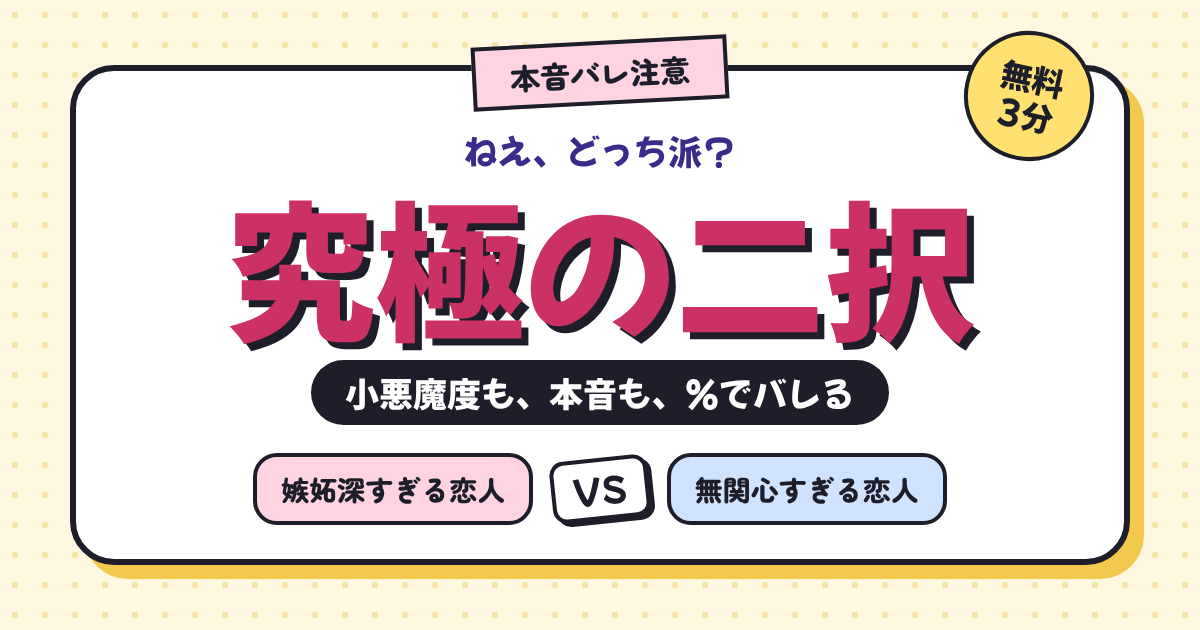
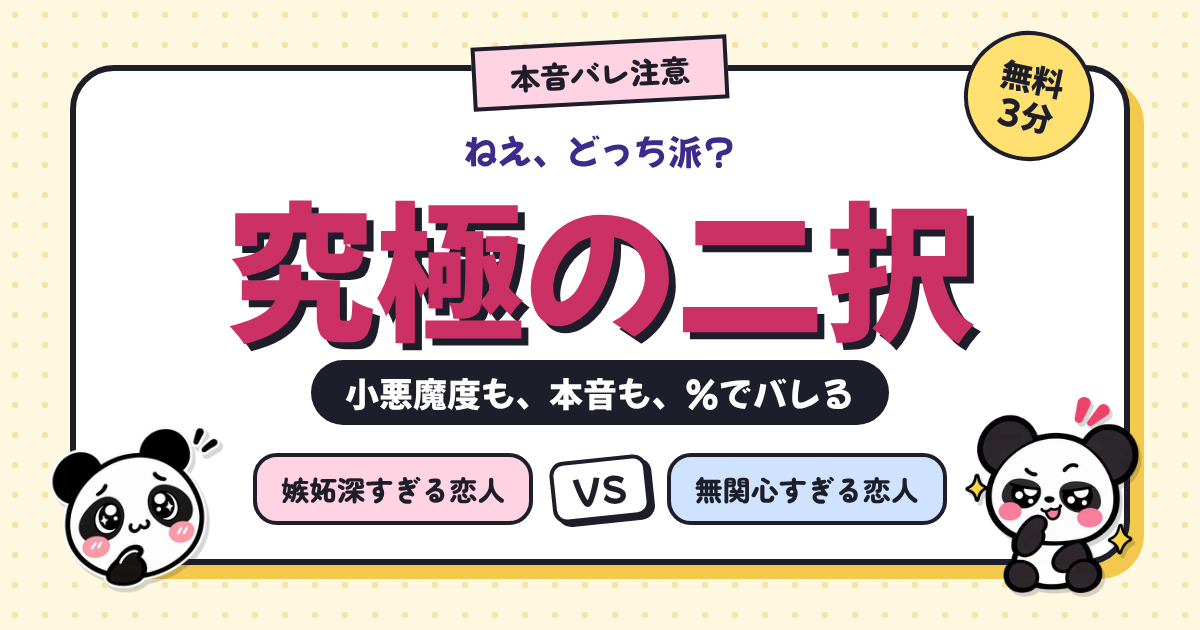
nitaku: show panda expressions in the lobby, notices, results and ended screen; add pandas to the share image
Claude-Session: https://claude.ai/code/session_01VNhb2hkhfox6azdXRsnDTE

Changed region(s): [[0.8017, 0.6333, 0.9558, 0.9651], [0.0308, 0.6635, 0.185, 0.9349]]

diff --git a/nitaku/index.html b/nitaku/index.html
@@ -23,7 +23,7 @@
 <meta property="og:description" content="嫉妬深すぎる恋人 VS 無関心すぎる恋人。あなたはどっち？ 選ぶだけで小悪魔度と本音がわかる無料診断。その場でも、離れていても、みんなで遊べる。遊ぶたびに問題が変わる。">
 <meta property="og:type" content="website">
 <!-- シェアしたときの画像。サイトのアドレスが決まったら、https:// から始まる完全なアドレスに書きかえる（LINE・Xは完全なアドレスでないと画像を出さない） -->
-<meta property="og:image" content="https://honbare.com/og-image.png?v=2">
+<meta property="og:image" content="https://honbare.com/og-image.png?v=3">
 <meta property="og:url" content="https://honbare.com/">
 <link rel="canonical" href="https://honbare.com/">
 <meta property="og:image:width" content="1200">
@@ -549,6 +549,19 @@ body.rdy-on #gres-body{padding-bottom:230px}
 .imgov-in{max-width:520px;margin:0 auto;background:#fff;border-radius:20px;padding:16px}
 .imgov-t{margin:0 0 10px;font-weight:900;font-size:16px;text-align:center;color:#1E1E2A}
 .imgov img{display:block;width:100%;border:2px solid #1E1E2A;border-radius:12px}
+/* パンダの表情（鑑定者本人が作った絵 2026-11-13「これで」）。1つの画面に1匹だけ */
+.pnd{display:block;margin:0 auto 6px;width:110px;height:110px;object-fit:contain}
+.splash .pnd{width:120px;height:120px;margin:0}
+.res-hero .pnd{width:96px;height:96px;margin:2px auto 0}
+.rdy-in .rdy-row{display:flex;align-items:center;gap:10px}
+.rdy-in .rdy-row img{flex:none;width:58px;height:58px;object-fit:contain}
+.rdy-in .rdy-row>div{min-width:0}
+.mini-pnd{width:52px;height:52px;object-fit:contain;vertical-align:middle;margin-right:4px}
+.rank.rank-pnd{align-items:center}
+.rank.rank-pnd .k{display:flex;align-items:center;gap:4px}
+.rank.rank-pnd .mini-pnd{width:34px;height:34px;flex:none;margin:0}
+.rank.rank-pnd .v{white-space:nowrap}
+.join-hello .pnd{width:96px;height:96px}
 </style>
 </head>
 <body data-mode="love">
@@ -743,12 +756,13 @@ body.rdy-on #gres-body{padding-bottom:230px}
   <button class="big" id="join-go">参加する</button>
 </section>
 
-<div class="splash" id="splash" hidden><b id="splash-t"></b><small id="splash-s"></small></div>
+<div class="splash" id="splash" hidden><img class="pnd" id="splash-img" alt="" width="120" height="120"><b id="splash-t"></b><small id="splash-s"></small></div>
 <!-- 部屋（集まるまで） -->
 <section class="scr" id="s-lobby">
   <div class="nav"><button class="navb" data-nav="back">← もどる</button><span class="navr"><button class="navb" data-nav="top">TOP</button></span></div>
   <div hidden><div id="lb-status"></div><span id="lb-count"></span></div>
   <div class="card lb-main">
+    <img class="pnd" id="lb-panda" src="img/panda-wait.webp" alt="" width="110" height="110">
     <p class="lb-pill" id="lb-pill"></p>
     <p class="lb-head" id="lb-head">部屋ができました</p>
     <p class="lb-sub" id="lb-sub"></p>
@@ -1340,7 +1354,7 @@ function majorityStats(qs, ans){
   if(n<5) return '<div class="card"><h3>みんなと同じ答え？</h3><p>まだ回答が少ない問題が多いので、くらべられません。回答が集まると「多数派度」が出ます。</p></div>';
   var r=Math.round(100*same/n);
   var cm = r>=70 ? '王道タイプ。みんなの気持ちがわかる人。' : (r<=35 ? '少数派タイプ。あなたの答えは、個性そのもの。' : '王道と個性のバランス型。');
-  return '<div class="card"><h3>みんなと同じ答え？</h3><div class="stat"><div><b>'+same+' / '+n+'</b><small>みんなと同じ答え</small></div><div><b>'+r+'%</b><small>多数派度</small></div></div><p style="margin-top:10px;font-size:15px;font-weight:700">'+cm+'</p></div>';
+  return '<div class="card"><h3>みんなと同じ答え？</h3><div class="stat"><div><b>'+same+' / '+n+'</b><small>みんなと同じ答え</small></div><div><b>'+r+'%</b><small>多数派度</small></div></div><p style="margin-top:10px;font-size:15px;font-weight:700">'+(r<=35?'<img class="mini-pnd" src="img/panda-wow.webp" alt="" width="52" height="52">':'')+cm+'</p></div>';
 }
 /* もどる・TOP（どの画面からでも） */
 function curScr(){ var e=document.querySelector('.scr.on'); return e ? e.id : 's-home'; }
@@ -1479,7 +1493,8 @@ function doShare(text){
 var splashT=null;
 function splash(t, sub, kind){
   var el=$('splash'); $('splash-t').textContent=t; $('splash-s').textContent=sub||'';
-  el.className='splash '+(kind||''); el.hidden=false;
+  $('splash-img').src='img/panda-'+({go:'joy',join:'bye',again:'wait'}[kind]||'joy')+'.webp';
+  el.className='splash '+(kind==='again'?'join':(kind||'')); el.hidden=false;
   try{ navigator.vibrate&&navigator.vibrate(kind==='go'?[120,60,120]:80); }catch(e){}
   clearTimeout(splashT); splashT=setTimeout(function(){ el.hidden=true; }, kind==='go'?1600:2200);
 }
@@ -1541,6 +1556,7 @@ function showResult(){
   var hist=saveHist(mode, sc);
   var others = AXES[mode].filter(function(ax){ return ax.k!==hd.k; });
   var h='<div class="res-hero"><div class="pre">'+playName(mode)+'　あなたの結果</div>'+
+    '<img class="pnd" src="img/panda-'+(val>=65?'smirk':(val<35?'shy':'1'))+'.webp" alt="" width="96" height="96">'+
     '<div class="meter"><div class="cap">'+hd.cap+'</div><div class="num">'+val+'<small>%</small></div></div>'+
     '<div class="catch">'+axComment(hd.k,val)+'</div>'+
     '<div class="minis">'+others.map(function(ax){ return '<div><b>'+sc[ax.k]+'<small>%</small></b><span>'+ax.name+'</span></div>'; }).join('')+'</div></div>';
@@ -1596,7 +1612,7 @@ function showGroupResult(){
     R.forEach(function(r,k){ if(S.ans[r.i][qi]===minor) minority[k]++; });
   });
   var mi = minority.indexOf(Math.max.apply(null,minority));
-  if(minority[mi]>0) h+='<div class="rank"><span class="k">いちばんの少数派（個性派）</span><span class="v">'+esc(R[mi].p.name)+'（'+minority[mi]+'回）</span></div>';
+  if(minority[mi]>0) h+='<div class="rank rank-pnd"><span class="k"><img class="mini-pnd" src="img/panda-wow.webp" alt="" width="34" height="34"><span>いちばんの少数派（個性派）</span></span><span class="v">'+esc(R[mi].p.name)+'（'+minority[mi]+'回）</span></div>';
   // 即決王（答えるまでの時間）
   {
     var avg=R.map(function(r){ var t=S.times[r.i].filter(Boolean); return t.length? t.reduce(function(x,y){return x+y;},0)/t.length : 1e9; });
@@ -1831,7 +1847,7 @@ function roomEnded(r){ return !r || r.phase==='closed' || (typeof r.created==='n
 var ROOM_ENDED_MSG='この部屋は終わっています。招待してくれた人に、新しい部屋のリンクを送ってもらってね。';
 function showEnded(){
   $('s-join').classList.add('ended');
-  $('join-hello').innerHTML='この部屋は終わっています<small>招待してくれた人に、新しい部屋のリンクを送ってもらってね。</small>';
+  $('join-hello').innerHTML='<img class="pnd" src="img/panda-sad.webp" alt="" width="96" height="96">この部屋は終わっています<small>招待してくれた人に、新しい部屋のリンクを送ってもらってね。</small>';
   $('join-st').textContent='';
 }
 /* 参加する前に、その部屋がもう始まっているかを見せる */
@@ -2001,7 +2017,7 @@ function onRoom(room, players){
       if(was!=='done:'+room.round+':'+room.qi || curScr()!=='s-gres') showGroupResult();
       var rp=readyParts(room);
       R.rdyAt=Date.now();
-      if(rp.by!==R.pid) splash(readyName(rp.by)+'さんが「もう1回」を押しました', '読み終わったら、下の「準備OK」を押してね', 'join');
+      if(rp.by!==R.pid) splash(readyName(rp.by)+'さんが「もう1回」を押しました', '読み終わったら、下の「準備OK」を押してね', 'again');
     }
     renderReady(); readyCheck();
   }
@@ -2029,6 +2045,7 @@ function renderLobby(){
   R.seenP={}; R.players.forEach(function(p){ R.seenP[p.pid]=1; });
   if(fresh.length){ splash(fresh.join('さん・')+'さんが入りました！', n+'人になりました', 'join'); }
   var pill=$('lb-pill');
+  $('lb-panda').src='img/panda-'+(R.host && n>=2 ? 'joy' : 'wait')+'.webp';
   if(R.host){
     pill.className='lb-pill '+(n<2?'wait':'ok');
     pill.textContent = n<2 ? '⏳ 友だちを待っています' : '✅ '+n+'人そろいました';
@@ -2116,7 +2133,7 @@ function renderReady(){
   var R=S.room; if(!R || !R.data || R.data.phase!=='ready' || curScr()!=='s-gres'){ hideReady(); return; }
   var rp=readyParts(R.data), need=readyNeed(R), me=readyOk(R, { pid:R.pid });
   var ok=need.filter(function(p){ return readyOk(R, p); }).length;
-  var h='<div class="rdy-in"><p class="rdy-t">🔁 '+esc(readyName(rp.by))+'さんが「もう1回」を押しました'+(rp.nx!==R.data.mode ? '<br><small>次は'+MODE_NAME[rp.nx]+'です</small>' : '')+'</p>';
+  var h='<div class="rdy-in"><div class="rdy-row"><img src="img/panda-wait.webp" alt="" width="58" height="58"><div><p class="rdy-t">🔁 '+esc(readyName(rp.by))+'さんが「もう1回」を押しました'+(rp.nx!==R.data.mode ? '<br><small>次は'+MODE_NAME[rp.nx]+'です</small>' : '')+'</p></div></div>';
   if(!me){
     h+='<p class="rdy-s">結果を読み終わったら「準備OK」を押してね。みんながそろうと、次の問題が始まります。</p><button class="big" id="rdy-go" type="button">準備OK</button>';
   } else {

diff --git a/nitaku/muzukashii/index.html b/nitaku/muzukashii/index.html
@@ -2,7 +2,7 @@
 <title>難しい究極の二択（地獄の二択）40選｜究極の二択 本音バレ診断</title>
 <meta name="description" content="どっちを選んでも痛い、難しい究極の二択（地獄の二択）を40問まとめました。恋愛も人生も、本気で悩む質問ばかりです。">
 <link rel="canonical" href="https://honbare.com/muzukashii/">
-<meta property="og:title" content="難しい究極の二択（地獄の二択）40選｜究極の二択 本音バレ診断"><meta property="og:description" content="どっちを選んでも痛い、難しい究極の二択（地獄の二択）を40問まとめました。恋愛も人生も、本気で悩む質問ばかりです。"><meta property="og:image" content="https://honbare.com/og-image.png?v=2"><meta property="og:url" content="https://honbare.com/muzukashii/"><meta name="twitter:card" content="summary_large_image">
+<meta property="og:title" content="難しい究極の二択（地獄の二択）40選｜究極の二択 本音バレ診断"><meta property="og:description" content="どっちを選んでも痛い、難しい究極の二択（地獄の二択）を40問まとめました。恋愛も人生も、本気で悩む質問ばかりです。"><meta property="og:image" content="https://honbare.com/og-image.png?v=3"><meta property="og:url" content="https://honbare.com/muzukashii/"><meta name="twitter:card" content="summary_large_image">
 <link rel="stylesheet" href="https://fonts.googleapis.com/css2?family=Mochiy+Pop+One&family=Zen+Maru+Gothic:wght@700;900&display=swap">
 <script type="application/ld+json">{"@context":"https://schema.org","@type":"ItemList","name":"難しい究極の二択（地獄の二択） 40選","numberOfItems":40,"itemListElement":[{"@type":"ListItem","position":1,"name":"浮気を正直に打ち明けられる VS 浮気に一生気づかないまま"},{"@type":"ListItem","position":2,"name":"恋人の部屋で、元恋人のパジャマを見つける VS 恋人のスマホで、知らない人とのハートの絵文字を見つける"},{"@type":"ListItem","position":3,"name":"キスが最高にうまい。でも性格はかなりわがまま VS キスがびっくりするほど下手。でも性格は天使"},{"@type":"ListItem","position":4,"name":"浮気を1回だけ許す VS 浮気されたら1回目で即別れる"},{"@type":"ListItem","position":5,"name":"恋人の元恋人が30人 VS 恋人の元恋人が0人（あなたがはじめて）"},{"@type":"ListItem","position":6,"name":"元恋人の結婚式に呼ばれる VS 今の恋人の元恋人と、2人きりで飲みに行く"},{"@type":"ListItem","position":7,"name":"好きな人の結婚式で、友人代表スピーチ VS 好きな人の結婚式に、呼ばれない"},{"@type":"ListItem","position":8,"name":"恋人のスマホを1回だけ見る VS 自分のスマホを1回だけ見せる"},{"@type":"ListItem","position":9,"name":"恋人の親友が、自分に本気で告白してくる VS 自分の親友が、恋人に本気で告白する"},{"@type":"ListItem","position":10,"name":"結婚相手を親が決める。性格も条件も完璧 VS 結婚相手を自分で選ぶ。でも親には一生反対される"},{"@type":"ListItem","position":11,"name":"子どもが大好きな人。でもあなたへの愛はほどほど VS あなたしか見えない人。でも子どもは苦手"},{"@type":"ListItem","position":12,"name":"付き合っていることを一生秘密にする恋 VS みんなに祝福される。でも気持ちは少し冷めた恋"},{"@type":"ListItem","position":13,"name":"元恋人が全員、いまだに自分を好き VS 元恋人が全員、自分のことを完全に忘れている"},{"@type":"ListItem","position":14,"name":"好きな人の幸せのために、身を引く VS どんな手を使ってでも振り向かせる"},{"@type":"ListItem","position":15,"name":"恋人の黒歴史のSNSを見つけてしまう VS 自分の黒歴史のSNSを恋人に見つかる"},{"@type":"ListItem","position":16,"name":"恋人の家に、元恋人の写真が飾ってあった VS 恋人の家に、あなたの写真が壁一面に飾ってあった"},{"@type":"ListItem","position":17,"name":"浮気相手が、あなたの親友 VS 浮気相手が、あなたもよく知っている職場の人"},{"@type":"ListItem","position":18,"name":"最初の恋人と一生添いとげる VS たくさん恋をして、最後に最高の人と出会う"},{"@type":"ListItem","position":19,"name":"一生で1回だけの大恋愛 VS 一生で20回の、そこそこの恋"},{"@type":"ListItem","position":20,"name":"一生ドキドキできる。でも結婚はできない VS すぐ結婚できる。でもドキドキはゼロ"},{"@type":"ListItem","position":21,"name":"好きな人に「友達としか見られない」と言われる VS 好きでもない人に「一生待つ」と言われる"},{"@type":"ListItem","position":22,"name":"愛するほうになる恋 VS 愛されるほうになる恋"},{"@type":"ListItem","position":23,"name":"恋人のために、自分の夢をあきらめる VS 自分の夢のために、恋人と別れる"},{"@type":"ListItem","position":24,"name":"酔った勢いで、好きな人に告白してしまう VS 好きな人から酔った勢いで告白される（本人は覚えていない）"},{"@type":"ListItem","position":25,"name":"フラれた次の日に、別の人から告白される VS 告白をOKした次の日に、本命から告白される"},{"@type":"ListItem","position":26,"name":"恋人がいるのに、昔の片思いの人から告白される VS フリーなのに、恋人がいる人から告白される"},{"@type":"ListItem","position":27,"name":"恋人の裏アカを見つける VS 自分の裏アカを恋人に見つかる"},{"@type":"ListItem","position":28,"name":"友達の恋人を好きになってしまう VS 恋人の友達に好かれてしまう"},{"@type":"ListItem","position":29,"name":"二股されていたことを、結婚式の前日に知る VS 二股されていたことを、一生知らない"},{"@type":"ListItem","position":30,"name":"恋人の転勤に、仕事をやめてついていく VS 恋人の転勤中、帰ってくるまで何年でも待つ"},{"@type":"ListItem","position":31,"name":"借金100万円を、正直に話してくれた恋人 VS 貯金額を、絶対に教えてくれない恋人"},{"@type":"ListItem","position":32,"name":"体だけの浮気 VS 心だけの浮気"},{"@type":"ListItem","position":33,"name":"婚約破棄されたら、慰謝料をきっちりもらう VS 婚約破棄されたら、何も求めずに身を引く"},{"@type":"ListItem","position":34,"name":"結婚式の前日、大好きだった元恋人から「まだ好き」と連絡が来る VS 結婚式の前日、恋人のスマホに知らない人から「さみしい」と届く"},{"@type":"ListItem","position":35,"name":"自分の検索履歴を、好きな人に全部見られる VS 好きな人の検索履歴を、全部見てしまう"},{"@type":"ListItem","position":36,"name":"好きな人の心の声が、1日だけ全部聞こえる VS 自分の心の声が、1日だけ好きな人に全部聞こえる"},{"@type":"ListItem","position":37,"name":"恋人が、あなたの親友の元恋人だったと3年後に知る VS 恋人が、あなたの元恋人の親友だったと3年後に知る"},{"@type":"ListItem","position":38,"name":"恋人の過去の恋愛を、全部くわしく聞かされる VS 自分の過去の恋愛を、全部恋人に知られる"},{"@type":"ListItem","position":39,"name":"1年間、だれとも話せない VS 1年間、ひとりになれる時間がまったくない"},{"@type":"ListItem","position":40,"name":"死ぬ日がわかる VS 死ぬ理由がわかる"}]}</script>
 <style>

diff --git a/nitaku/minna/index.html b/nitaku/minna/index.html
@@ -2,7 +2,7 @@
 <title>みんなで盛り上がる究極の二択40選｜究極の二択 本音バレ診断</title>
 <meta name="description" content="みんなで盛り上がる究極の二択を40問まとめました。友だち・家族・職場で答えが分かれる質問ばかり。近くの人はQRコード、離れた人はLINEで呼んで、それぞれのスマホから一緒に遊べます。">
 <link rel="canonical" href="https://honbare.com/minna/">
-<meta property="og:title" content="みんなで盛り上がる究極の二択40選｜究極の二択 本音バレ診断"><meta property="og:description" content="みんなで盛り上がる究極の二択を40問まとめました。友だち・家族・職場で答えが分かれる質問ばかり。近くの人はQRコード、離れた人はLINEで呼んで、それぞれのスマホから一緒に遊べます。"><meta property="og:image" content="https://honbare.com/og-image.png?v=2"><meta property="og:url" content="https://honbare.com/minna/"><meta name="twitter:card" content="summary_large_image">
+<meta property="og:title" content="みんなで盛り上がる究極の二択40選｜究極の二択 本音バレ診断"><meta property="og:description" content="みんなで盛り上がる究極の二択を40問まとめました。友だち・家族・職場で答えが分かれる質問ばかり。近くの人はQRコード、離れた人はLINEで呼んで、それぞれのスマホから一緒に遊べます。"><meta property="og:image" content="https://honbare.com/og-image.png?v=3"><meta property="og:url" content="https://honbare.com/minna/"><meta name="twitter:card" content="summary_large_image">
 <link rel="stylesheet" href="https://fonts.googleapis.com/css2?family=Mochiy+Pop+One&family=Zen+Maru+Gothic:wght@700;900&display=swap">
 <script type="application/ld+json">{"@context":"https://schema.org","@type":"ItemList","name":"みんなで盛り上がる究極の二択 40選","numberOfItems":40,"itemListElement":[{"@type":"ListItem","position":1,"name":"上司の悪口を、上司本人に誤送信 VS 好きな人への告白LINEを、家族のグループに誤送信"},{"@type":"ListItem","position":2,"name":"給料2倍。でも毎日終電 VS 給料そのまま。でも毎日定時"},{"@type":"ListItem","position":3,"name":"週休4日。でも給料は半分 VS 週休1日。でも給料は2倍"},{"@type":"ListItem","position":4,"name":"上司がやさしい。でも仕事ができない VS 上司がこわい。でも仕事は神"},{"@type":"ListItem","position":5,"name":"有名企業で、まったく目立たない VS 無名の会社で、エースとして大活躍"},{"@type":"ListItem","position":6,"name":"好きなことを仕事にして、嫌いになる VS 好きでもない仕事で、趣味を守る"},{"@type":"ListItem","position":7,"name":"地元で、家族や友達の近くで暮らす VS 都会で、やりたい仕事をする"},{"@type":"ListItem","position":8,"name":"完全在宅で、だれにも会わない仕事 VS 毎日100人と会う仕事"},{"@type":"ListItem","position":9,"name":"職場の人が全員美男美女。でも全員性格が悪い VS 職場の人が全員地味。でも全員性格が神"},{"@type":"ListItem","position":10,"name":"親友が1人だけ VS 知り合いが1000人"},{"@type":"ListItem","position":11,"name":"フォロワー10万人。でも全員知らない人 VS フォロワー10人。でも全員親友"},{"@type":"ListItem","position":12,"name":"宝くじで3億円。でもだれにも言えない VS 宝くじで3億円。でも知り合い全員に知られる"},{"@type":"ListItem","position":13,"name":"今すぐ1000万円 VS 毎月10万円が一生"},{"@type":"ListItem","position":14,"name":"お金持ち。でも友達がいない VS お金はない。でも友達が100人"},{"@type":"ListItem","position":15,"name":"検索履歴を、親に全部見られる VS 写真フォルダを、上司に全部見られる"},{"@type":"ListItem","position":16,"name":"寝言を録音されて、職場で流される VS 酔ったときの動画が、SNSで1万回再生"},{"@type":"ListItem","position":17,"name":"小学生のころの日記を、好きな人に読まれる VS 元恋人に送ったLINEを、全部友達に読まれる"},{"@type":"ListItem","position":18,"name":"友達の秘密を1つ知ってしまう VS 自分の秘密を友達に1つ知られる"},{"@type":"ListItem","position":19,"name":"自分の悪口を言っている人がわかる VS 自分をほめている人がわかる"},{"@type":"ListItem","position":20,"name":"一生、うそがつけない VS 一生、人のうそを見抜けない"},{"@type":"ListItem","position":21,"name":"みんなに好かれる。でも本音は言えない VS 本音で生きる。でも敵も多い"},{"@type":"ListItem","position":22,"name":"世界一周に出る。でも帰ったら家がない VS 一生地元。でも家と家族は安泰"},{"@type":"ListItem","position":23,"name":"有名人になる。でも変装しないと外を歩けない VS 一般人のまま。どこへでも好きに行ける"},{"@type":"ListItem","position":24,"name":"才能はある。でも努力が嫌い VS 才能はない。でも努力が大好き"},{"@type":"ListItem","position":25,"name":"人生でいちばん楽しかった日を、もう一度だけ VS 人生でいちばん後悔している日を、1回だけやり直す"},{"@type":"ListItem","position":26,"name":"過去に戻れる。でも1回だけ、3分だけ VS 未来に行ける。でも1回だけ、3分だけ"},{"@type":"ListItem","position":27,"name":"自分の心の声が、まわりに字幕で見える VS まわりの人の心の声が、全部聞こえる"},{"@type":"ListItem","position":28,"name":"人のうそが100%わかる VS 自分のうそが100%バレない"},{"@type":"ListItem","position":29,"name":"告白しないで、友達のまま一生そばにいる VS 告白する。でもフラれたら二度と会えない"},{"@type":"ListItem","position":30,"name":"追いかけて、やっと振り向いてくれた人 VS 最初からずっと好きでいてくれる人"},{"@type":"ListItem","position":31,"name":"デートを毎回全部決めてくれる人 VS デートは毎回「どこでもいいよ」の人"},{"@type":"ListItem","position":32,"name":"恋人が料理上手。でも片づけは一切しない VS 恋人が片づけ上手。でも料理は壊滅的"},{"@type":"ListItem","position":33,"name":"付き合って3ヶ月で同棲 VS 付き合って3年、まだ別々に暮らす"},{"@type":"ListItem","position":34,"name":"友達としては最高。でもドキドキしない人 VS ドキドキが止まらない。でも一緒にいると少し疲れる人"},{"@type":"ListItem","position":35,"name":"恋人の寝言で、知らない人の名前 VS 自分の寝言で、元恋人の名前"},{"@type":"ListItem","position":36,"name":"自分の好きな人が、親友の好きな人 VS 親友の恋人を、好きになってしまう"},{"@type":"ListItem","position":37,"name":"恋人のスマホの待ち受けが、元恋人との写真のまま VS 恋人のスマホに、あなたの写真が1枚もない"},{"@type":"ListItem","position":38,"name":"記念日を全部覚えている。でも忘れるとすごく怒る VS 記念日を全部忘れる。でもあなたが忘れても怒らない"},{"@type":"ListItem","position":39,"name":"恋人がみんなの人気者 VS 恋人は友達が少なくて、あなただけが頼り"},{"@type":"ListItem","position":40,"name":"デートは毎回ファミレス。でも5時間しゃべって笑える VS デートは毎回高級レストラン。でも話は少なめ"}]}</script>
 <style>

diff --git a/nitaku/renai/index.html b/nitaku/renai/index.html
@@ -2,7 +2,7 @@
 <title>恋愛の究極の二択40選｜究極の二択 本音バレ診断</title>
 <meta name="description" content="恋愛の究極の二択を40問まとめました。付き合うなら・結婚するなら・恋人のLINEなど、思わず本音が出る質問ばかり。そのまま無料で遊べて、小悪魔度もわかります。">
 <link rel="canonical" href="https://honbare.com/renai/">
-<meta property="og:title" content="恋愛の究極の二択40選｜究極の二択 本音バレ診断"><meta property="og:description" content="恋愛の究極の二択を40問まとめました。付き合うなら・結婚するなら・恋人のLINEなど、思わず本音が出る質問ばかり。そのまま無料で遊べて、小悪魔度もわかります。"><meta property="og:image" content="https://honbare.com/og-image.png?v=2"><meta property="og:url" content="https://honbare.com/renai/"><meta name="twitter:card" content="summary_large_image">
+<meta property="og:title" content="恋愛の究極の二択40選｜究極の二択 本音バレ診断"><meta property="og:description" content="恋愛の究極の二択を40問まとめました。付き合うなら・結婚するなら・恋人のLINEなど、思わず本音が出る質問ばかり。そのまま無料で遊べて、小悪魔度もわかります。"><meta property="og:image" content="https://honbare.com/og-image.png?v=3"><meta property="og:url" content="https://honbare.com/renai/"><meta name="twitter:card" content="summary_large_image">
 <link rel="stylesheet" href="https://fonts.googleapis.com/css2?family=Mochiy+Pop+One&family=Zen+Maru+Gothic:wght@700;900&display=swap">
 <script type="application/ld+json">{"@context":"https://schema.org","@type":"ItemList","name":"恋愛の究極の二択 40選","numberOfItems":40,"itemListElement":[{"@type":"ListItem","position":1,"name":"一緒にいて楽な人 VS 一緒にいてドキドキする人"},{"@type":"ListItem","position":2,"name":"好きな人に既読スルーされる VS 好きな人に、何を送っても「笑」だけ返される"},{"@type":"ListItem","position":3,"name":"頭ポンポン VS 後ろからぎゅっ"},{"@type":"ListItem","position":4,"name":"寝落ち電話 VS 朝いちばんの「おはよう」電話"},{"@type":"ListItem","position":5,"name":"名前を呼び捨てにされる VS 名前に「ちゃん」「くん」をつけて呼ばれる"},{"@type":"ListItem","position":6,"name":"誕生日の0時ぴったりに電話。でも当日は会えない VS 誕生日当日、サプライズで会いに来る"},{"@type":"ListItem","position":7,"name":"恋人の手料理が絶品。でも作るのは年1回 VS 恋人の手料理はちょっとまずい。でも毎日作ってくれる"},{"@type":"ListItem","position":8,"name":"告白は手紙で VS 告白は面と向かって"},{"@type":"ListItem","position":9,"name":"初デートは映画 VS 初デートは遊園地"},{"@type":"ListItem","position":10,"name":"趣味がまったく同じ恋人 VS 趣味がまったくちがう恋人"},{"@type":"ListItem","position":11,"name":"年上の恋人 VS 年下の恋人"},{"@type":"ListItem","position":12,"name":"おうちデート VS おでかけデート"},{"@type":"ListItem","position":13,"name":"毎日ちょっとずつLINE VS 週1回の長電話"},{"@type":"ListItem","position":14,"name":"やきもちを焼いてくれる恋人 VS やきもちを焼かない恋人"},{"@type":"ListItem","position":15,"name":"「会いたい」は自分から言う VS 「会いたい」は相手に言わせる"},{"@type":"ListItem","position":16,"name":"サプライズする側 VS サプライズされる側"},{"@type":"ListItem","position":17,"name":"けんかしたら、すぐ謝る派 VS けんかしたら、相手が謝るまで待つ派"},{"@type":"ListItem","position":18,"name":"初恋の人と再会 VS 新しい人に一目ぼれ"},{"@type":"ListItem","position":19,"name":"おそろいの指輪をつける VS おそろいのスマホケースをつける"},{"@type":"ListItem","position":20,"name":"恋人の友達と仲よくなりたい VS 恋人の友達とは距離をおきたい"},{"@type":"ListItem","position":21,"name":"毎日会いたい VS 週末だけでいい"},{"@type":"ListItem","position":22,"name":"結婚式は友達みんなを呼んで盛大に VS 結婚式は2人だけで"},{"@type":"ListItem","position":23,"name":"好きな人の前だと、緊張して話せない VS 好きな人の前だと、しゃべりすぎる"},{"@type":"ListItem","position":24,"name":"デートの帰り、駅まで送ってくれる VS デートの帰り、家に着くまで電話してくれる"},{"@type":"ListItem","position":25,"name":"寝る前に「おやすみ」だけのLINE VS 寝る前に、今日あったことの長文LINE"},{"@type":"ListItem","position":26,"name":"好きな人と目が合う VS 好きな人に名前を呼ばれる"},{"@type":"ListItem","position":27,"name":"はじめての2人旅行は温泉 VS はじめての2人旅行はテーマパーク"},{"@type":"ListItem","position":28,"name":"付き合った記念日を毎月お祝い VS 付き合った記念日は年1回だけ"},{"@type":"ListItem","position":29,"name":"好きな人の好きなタイプが、自分と真逆 VS 好きな人の元恋人が、自分にそっくり"},{"@type":"ListItem","position":30,"name":"告白の返事を1週間待たされて、結局フラれる VS 告白した瞬間に断られる"},{"@type":"ListItem","position":31,"name":"告白の返事を待っている、ドキドキの30秒 VS 付き合って1年目の、何でもない休日の朝"},{"@type":"ListItem","position":32,"name":"卒業式で、好きだった人から制服のボタン VS 同窓会で、好きだった人から「実は好きだった」"},{"@type":"ListItem","position":33,"name":"恋人の写真フォルダが、あなたの写真だらけ VS 恋人の写真フォルダがペットだらけ"},{"@type":"ListItem","position":34,"name":"帰り道、だまって車道側を歩いてくれる VS 帰り道、ずっと手をつないでくれる"},{"@type":"ListItem","position":35,"name":"恋人のいびきが大きすぎる VS 恋人の寝相が悪すぎて毎晩けられる"},{"@type":"ListItem","position":36,"name":"2人きりのときだけ、赤ちゃん言葉で呼ばれる VS みんなの前でも、恥ずかしいあだ名で呼ばれる"},{"@type":"ListItem","position":37,"name":"年収2000万。でも、どうしても好きになれない人 VS 貯金ゼロ。でも、心の底から大好きな人"},{"@type":"ListItem","position":38,"name":"プロポーズが、みんなの前でフラッシュモブ VS プロポーズが、2人きりの部屋で、いつもの服のまま"},{"@type":"ListItem","position":39,"name":"恋人のお母さんが毎週家に来る VS 恋人のお母さんに一度も会わせてもらえない"},{"@type":"ListItem","position":40,"name":"顔はど真ん中。でも会話が5分ともたない人 VS 顔はタイプじゃない。でも話すと朝まで止まらない人"}]}</script>
 <style>

diff --git a/nitaku/omoshiroi/index.html b/nitaku/omoshiroi/index.html
@@ -2,7 +2,7 @@
 <title>面白い究極の二択（あるある）40選｜究極の二択 本音バレ診断</title>
 <meta name="description" content="くだらないけど本気で悩む、面白い究極の二択を40問まとめました。毎日のあるあるから選んだ質問なので、友だちや家族とすぐ盛り上がれます。">
 <link rel="canonical" href="https://honbare.com/omoshiroi/">
-<meta property="og:title" content="面白い究極の二択（あるある）40選｜究極の二択 本音バレ診断"><meta property="og:description" content="くだらないけど本気で悩む、面白い究極の二択を40問まとめました。毎日のあるあるから選んだ質問なので、友だちや家族とすぐ盛り上がれます。"><meta property="og:image" content="https://honbare.com/og-image.png?v=2"><meta property="og:url" content="https://honbare.com/omoshiroi/"><meta name="twitter:card" content="summary_large_image">
+<meta property="og:title" content="面白い究極の二択（あるある）40選｜究極の二択 本音バレ診断"><meta property="og:description" content="くだらないけど本気で悩む、面白い究極の二択を40問まとめました。毎日のあるあるから選んだ質問なので、友だちや家族とすぐ盛り上がれます。"><meta property="og:image" content="https://honbare.com/og-image.png?v=3"><meta property="og:url" content="https://honbare.com/omoshiroi/"><meta name="twitter:card" content="summary_large_image">
 <link rel="stylesheet" href="https://fonts.googleapis.com/css2?family=Mochiy+Pop+One&family=Zen+Maru+Gothic:wght@700;900&display=swap">
 <script type="application/ld+json">{"@context":"https://schema.org","@type":"ItemList","name":"面白い究極の二択（あるある） 40選","numberOfItems":40,"itemListElement":[{"@type":"ListItem","position":1,"name":"集合写真で、自分だけ半目 VS 集合写真で、自分だけ二重あご"},{"@type":"ListItem","position":2,"name":"大事な会議に30分遅刻 VS 時間どおりに着いたけど、ずっとチャック全開"},{"@type":"ListItem","position":3,"name":"一生、スマホの充電が23% VS 一生、イヤホンが片方だけ見つからない"},{"@type":"ListItem","position":4,"name":"満員電車で、お腹が5分鳴りつづける VS 満員電車で、くしゃみが10回止まらない"},{"@type":"ListItem","position":5,"name":"好きな人の前で、盛大にころぶ VS 好きな人の前で、盛大にお腹が鳴る"},{"@type":"ListItem","position":6,"name":"上司と、止まったエレベーターに2人きりで10分 VS 元恋人と、満員電車でぴったり隣"},{"@type":"ListItem","position":7,"name":"犬派 VS 猫派"},{"@type":"ListItem","position":8,"name":"朝型 VS 夜型"},{"@type":"ListItem","position":9,"name":"夏が好き VS 冬が好き"},{"@type":"ListItem","position":10,"name":"一生、甘いもの禁止 VS 一生、しょっぱいもの禁止"},{"@type":"ListItem","position":11,"name":"目玉焼きにしょうゆ VS 目玉焼きにソース"},{"@type":"ListItem","position":12,"name":"からあげに、毎回勝手にレモンをかけられる VS からあげに、一生レモンをかけられない"},{"@type":"ListItem","position":13,"name":"毎日、知らない人に道を聞かれる VS 毎日、知らない犬にほえられる"},{"@type":"ListItem","position":14,"name":"カラオケで、1曲目を歌う VS カラオケで、最後の1曲を歌う（みんな帰りたがってる）"},{"@type":"ListItem","position":15,"name":"飲み会の幹事（お店選び・みんなへの連絡） VS 飲み会のお金集め係（立てかえ・集金）"},{"@type":"ListItem","position":16,"name":"二日酔いゼロ。でも一生酔えない VS 飲めば必ずほろ酔いで楽しい。でも次の朝は必ず二日酔い"},{"@type":"ListItem","position":17,"name":"次の日、記憶が全部ない VS 次の日、記憶が全部あって全部はずかしい"},{"@type":"ListItem","position":18,"name":"毎朝、5時に目が覚める VS 毎晩、寝る直前にお腹がすく"},{"@type":"ListItem","position":19,"name":"一生、Wi-Fiがちょっと遅い VS 一生、靴ひもが1日1回ほどける"},{"@type":"ListItem","position":20,"name":"家族のLINEの返事が全部「了解」 VS 家族のLINEが毎回長文で絵文字だらけ"},{"@type":"ListItem","position":21,"name":"推しのライブで最前列。でもひとり VS 推しのライブで最後列。でも親友と一緒"},{"@type":"ListItem","position":22,"name":"どこでも3秒で眠れる VS どこでも3秒で人と仲よくなれる"},{"@type":"ListItem","position":23,"name":"寝ぐせのまま一日すごす VS 前歯にのりがついたまま一日すごす"},{"@type":"ListItem","position":24,"name":"名前をずっとまちがえて呼ばれる VS 年齢をずっと10歳上に見られる"},{"@type":"ListItem","position":25,"name":"電車で寝過ごして終点 VS 電車をまちがえて反対方向"},{"@type":"ListItem","position":26,"name":"映画の結末を先に言われる VS 映画の最後の5分だけ見られない"},{"@type":"ListItem","position":27,"name":"回転寿司で、取りたい皿を毎回前の人に取られる VS 自販機で、ほしい飲みものが毎回売り切れ"},{"@type":"ListItem","position":28,"name":"食べ放題で元を取りに行く派 VS 好きなものを少しだけ食べる派"},{"@type":"ListItem","position":29,"name":"旅行は計画どおりに動く VS 旅行はその場のノリで動く"},{"@type":"ListItem","position":30,"name":"貯める派 VS 使う派"},{"@type":"ListItem","position":31,"name":"海外旅行に1回 VS 国内旅行に5回"},{"@type":"ListItem","position":32,"name":"毎日が夏休み VS 毎日が給料日"},{"@type":"ListItem","position":33,"name":"一生、寝坊しない VS 一生、忘れものをしない"},{"@type":"ListItem","position":34,"name":"一生、Tシャツが後ろ前 VS 一生、靴が左右ちがう（片方スニーカー・片方サンダル）"},{"@type":"ListItem","position":35,"name":"休みの日は、全部雨 VS 休みの日は、全部猛暑"},{"@type":"ListItem","position":36,"name":"一生、出かけた先で必ず雨に降られる（傘なし） VS 一生、毎日長い傘を手に持って歩く（置いていけない）"},{"@type":"ListItem","position":37,"name":"回転寿司が一生食べ放題 VS 高級寿司を1年に1回"},{"@type":"ListItem","position":38,"name":"焼肉が一生食べ放題。でもタレなし VS 焼肉は1年に1回。でも最高級"},{"@type":"ListItem","position":39,"name":"カレーは一生、甘口だけ VS カレーは一生、激辛だけ"},{"@type":"ListItem","position":40,"name":"一生、ピザは冷めたものだけ VS 一生、ビールはぬるいものだけ"}]}</script>
 <style>

diff --git a/nitaku/og-image-src.html b/nitaku/og-image-src.html
@@ -14,11 +14,14 @@
 .ch{border:4px solid #1E1E2A;border-radius:24px;padding:12px 24px;font-size:28px;font-weight:900}
 .a{background:#FFD3E2}.b{background:#CFE3FF}
 .vs{font-family:"Mochiy Pop One";font-size:32px;background:#fff;color:#1E1E2A;border-radius:14px;padding:4px 18px;border:4px solid #1E1E2A;box-shadow:4px 4px 0 #1E1E2A;transform:rotate(-6deg)}
+.pd{position:absolute;bottom:-34px;filter:drop-shadow(3px 4px 0 rgba(30,30,42,.18))}
+.pd.l{left:-30px;width:178px}.pd.r{right:-26px;width:196px}
 </style></head><body><div class="c"><div class="card">
 <div class="tape">本音バレ注意</div><div class="seal">無料<br>3分</div>
 <div class="hk">ねえ、どっち派？</div><div class="t">究極の二択</div>
 <div class="pill">小悪魔度も、本音も、％でバレる</div>
 <div class="row"><div class="ch a">嫉妬深すぎる恋人</div><div class="vs">VS</div><div class="ch b">無関心すぎる恋人</div></div>
+<img class="pd l" src="img/panda-1.webp" alt=""><img class="pd r" src="img/panda-smirk.webp" alt="">
 </div></div><script id="pk-contrast-guard">
 /* 文字の見えやすさの安全装置（tools/add_contrast_guard.py が3サイトの全ページに埋め込む。直すときはこのファイルを直して再実行）
    文字の色と、その後ろの背景の色を比べて、読みにくい組み合わせ（薄い背景に薄い文字／濃い背景に濃い文字）を見つけたら、

diff --git a/tools/nitaku_matome.js b/tools/nitaku_matome.js
@@ -28,7 +28,7 @@ function page(p){
 <title>${esc(p.h1)}${p.qs.length}選｜究極の二択 本音バレ診断</title>
 <meta name="description" content="${esc(p.desc)}">
 <link rel="canonical" href="${SITE}/${p.f}/">
-<meta property="og:title" content="${esc(p.h1)}${p.qs.length}選｜究極の二択 本音バレ診断"><meta property="og:description" content="${esc(p.desc)}"><meta property="og:image" content="${SITE}/og-image.png?v=2"><meta property="og:url" content="${SITE}/${p.f}/"><meta name="twitter:card" content="summary_large_image">
+<meta property="og:title" content="${esc(p.h1)}${p.qs.length}選｜究極の二択 本音バレ診断"><meta property="og:description" content="${esc(p.desc)}"><meta property="og:image" content="${SITE}/og-image.png?v=3"><meta property="og:url" content="${SITE}/${p.f}/"><meta name="twitter:card" content="summary_large_image">
 <link rel="stylesheet" href="https://fonts.googleapis.com/css2?family=Mochiy+Pop+One&family=Zen+Maru+Gothic:wght@700;900&display=swap">
 <script type="application/ld+json">${JSON.stringify(ld)}</script>
 <style>

diff --git a/CLAUDE.md b/CLAUDE.md
@@ -96,6 +96,7 @@
 - **みんなで遊ぶときの進み方**（鑑定者本人の指示 2026-11-13「一問一問答え合わせか、まとめて答え合わせかを選べるように」「全員答え終わったら次に勝手に進む」「スタートしてるかわからない」）：「どうやって遊ぶ？」の下で「答え合わせ：最後にまとめて／1問ずつ」を選べる（最初は「最後にまとめて」＝鑑定者本人の指示 2026-11-13「最終的に見れる方がいい」。名前の欄は「名前（6文字まで・ニックネームOK）」＝ニックネームでもふつうの名前でもよい・6文字まで（鑑定者本人の指示 2026-11-13「名前は6文字を制限に」））（部屋でも1台を回すときも。部屋では Firestore の決まりを変えずにすむよう、`lv` の後ろに `|end` を付けて覚える＝`roomLv`）。前は部屋を作った人のスマホだけが次へ進めていたので、そのスマホが画面を消したり別のアプリに切りかえたりすると止まり、3人とも答えても進まなかった。今は全員が答えたら、だれのスマホからでも自動で進む（1問ずつ＝結果発表へ／まとめて＝次の問題へ。2人が同時に進めても1回だけ進むよう Firestore の取引で確かめる＝`roomStep`・`Room.advance`）。結果発表の「次の問題へ」もだれでも押せる。答えない人（画面を閉じた人）がいて止まったときは、20秒たつと「答えた人だけで先に進む」が全員に出る。参加の画面に「まだ始まっていません（いま○人）／もう始まっています（○問目）」、部屋の画面のいちばん上に「⏳ まだ始まっていません」（作った人には「全員の名前が出てからスタート」）、始まったら「スタート！」と知らせる。答え合わせで人数が足りなかったのは、スタートのあとに参加した人がいたため（その人はその問題から加わる）。部屋から抜けてしまった人（画面を消した・アプリから戻ってページが読み直された など）は、ページを開くと自動でさっきの部屋にもどる（前の答えを引きつぐ。「さっきの部屋にもどりました」）。TOPを2回押して自分で出たときは自動ではもどさず、トップに「🔙 さっきの部屋（番号）にもどる」を出す（鑑定者本人の承認 2026-11-13「お願いします」。`roomResume`・`nitaku_room` の `left`）。部屋が閉じられた・名前が部屋にないときは出さない。1人だけ取り残されない工夫（鑑定者本人の指示 2026-11-13「3人でやった時に2人が問題始まってるのに私はずっと登録画面のまま」）：部屋の様子は変わったときの知らせ（onSnapshot）に加えて2秒ごとに自分からも確かめる・知らせが切れたら1秒後につなぎ直す・ほかのアプリから戻ったときはつなぎ直してすぐ確かめる・同じ中身は何度も渡さない（`Room.watch`）。知らせが届かないスマホでも約1.5秒で追いつくことを3台で確かめた（直す前はずっと部屋の画面のままだった）。
 - **同じメンバーでもう1回は「準備OK」がそろってから**（鑑定者本人の指示 2026-11-13「まだ読んでるのに始まってしまう」→「両方」）：結果の「同じメンバーでもう1回」「○○編でもう1回」は、作った人だけでなくだれでも押せる。押しても、ほかの人の結果の画面はそのまま（全員の画面に「○○さんが「もう1回」を押しました」のお知らせ）。画面の下に「準備OK」の帯（`#rdy`・`renderReady`）が出て、全員が押したら全員そろって次の回が始まる（`readyCheck`・`startNext`。2人が同時に始めても1回だけ＝取引）。押した人には「みんなの準備を待っています（2 / 3人）」と、だれが押したか（✅／⏳）。2分以上つながっていない人は待たない。1分たってもそろわないときは、準備OKを押した人に「そろった人だけで始める」が出る（押していない人は一覧から外す。まだ画面を開いていれば30秒ごとの知らせでまた入る）。部屋の段階は `phase:'ready'`、次の編と押した人は Firestore の決まりを変えずにすむよう `lv` の後ろに「#編#押した人」、準備OKは自分の ans の「ok:回」で覚える（`readyParts`）。あわせて、ひとり・みんなの結果に「📷 結果を画像で保存」（`saveImage`。cdnjs の html2canvas 1.4.1 を押したときだけ読む。メーターの円は絵に置きかえ、ボタン・1.66の紹介・たたんだ中身は入れない。スマホの共有で写真へ／使えないときは画像を出して長押しで保存）。3台で確かめた（読んでいる人の画面が変わらない・全員そろうと始まる・1分後のボタン）。
 - **はじめ方を「押したら何が起きるか」でわかる形に**（鑑定者本人の指示 2026-11-13「どのボタンで何が起きるか全然わからない」「パッとスタートさせなきゃダメ」「この形で進めてください」。見本 https://claude.ai/artifact/L8De4DT4XHGCxeBkf6d4im）：トップは「どっちで遊ぶ？」のあと、大きな2つのボタン「🙋 ひとりで診断（押したらすぐ1問目。15問・約3分）」（`#go-solo`。アイコンは悩むパンダ1匹）と「👥 友だちと遊ぶ（アイコンは仲良く並ぶパンダ2匹＋ハート）。パンダは鑑定者本人が ChatGPT で作った絵（2026-11-13「これにしてください」。白と黒＝二択。`nitaku/img/panda-1.webp`・`panda-2.webp`＝192px・透明な背景。前にこちらで描いた絵は「つり目で可愛くない」で使わない）（部屋を作って、LINEで呼ぶ／その場の人はQRで）」（`#go-group`）だけ。前の「参加する人を決める」「友だちの部屋に参加する（部屋番号）」「📣 このサイトを友だちに教える」の大きなボタンはやめ、「招待された人はこちら（部屋番号で参加）」（`#join-open`）と「このサイトをシェアする」（`#tell`）は小さい文字のリンクに。問題の数（友だちと＝8問・ひとり＝15問）・難しさ（ノーマル）・答え合わせ（最後にまとめて）は最初から選んでおき、変えたい人だけ「細かい設定」（`#opts`）を開く。「友だちと遊ぶ」は名前を入れて「部屋を作る」だけ（「それぞれのスマホで／1台を回して」は先に選ばせない。1台のときは下の小さい文字「スマホが1台しかないときは、こちら」＝`#style-sw`）。部屋の画面は、いちばん上の枠に「部屋ができました／○人そろいました！」・参加している人の名前（自分には「（あなた）」）・大きな「スタート（○人で遊ぶ）」（作った人だけ）をまとめ、その下に緑の「LINEで友だちを招待する」、たたんだ「その場にいる人を呼ぶ（QRコード）」（中に部屋番号）、小さい文字の「ほかのアプリで招待する」、たたんだ「自分たちで問題を作る（なくてもOK）」（鑑定者本人の指摘 2026-11-13「スタートボタンは真ん中に」「LINEで送った人には部屋番号やQRは関係ない」「情報がいっぱいだとわかりづらい」）。招待された人の画面は「参加できました！」・名前・「○○さんが「スタート」を押すと、自動で始まります」だけ（招待のボタン・QRは出さない）。いまの状態は全員の画面ではっきり出す（鑑定者本人の指示 2026-11-13「揃ったのか、スタートなのか、待ってなきゃいけないのか、はっきりしないといけない」）：枠のいちばん上の札＝作った人「⏳ 友だちを待っています」（黄）→「✅ ○人そろいました」（緑）・招待された人「✅ 参加できました（いま○人）」。見出し＝作った人「まだ誰も来ていません」→「スタートできます！」／招待された人「○○さんのスタートを待っています」＋「あなたは何もしなくて大丈夫です。…自動で問題に変わります」。だれかが入ると、全員の画面に大きく「○○さんが入りました！ ○人になりました」（2.2秒・ふるえる。`splash`）、スタートすると全員に大きく「スタート！ 1問目です」（1.6秒）。同じ名前の人がもう部屋にいるときは参加させず「別の名前にしてね」と出す（同じ人が別のブラウザで入ると2人に数えられ、「3人」になっていたため）。色は今のまま（あざやかなピンクのボタン・LINEの緑。鑑定者本人の判断 2026-11-13「今まででOK。目立つからいい」。LINE・インスタなどのアプリの色はわかりやすいので使う）。ボタン・札・お知らせの文字は、幅360・390・430で1〜2文字だけの行・ボタンの2行折れ・13px未満の文字がないことを測って確かめた（鑑定者本人の指示「泣き別れがしないように文字の大きさも気をつけて」。「細かい設定（問題の数・難しさなど）」「スマホが1台だけのときは、こちら」に短くした）。遊び方は「ひとりで診断」と「みんなで遊ぶ（それぞれのスマホで。近くの人はQRで、離れた人はLINEで呼べます）」の2つだけ。スマホ1台を回す遊び方は出さない（鑑定者本人の判断 2026-11-13「回すのはプライバシーもあるから嫌だと思う。いらない」。`#style-sw` を hidden にしただけで中身は残してある）。QR・LINEのリンクから来た人は、前に名前を入れたことがあれば何も押さずにそのまま部屋に入る（「「○○」として部屋に入っています…」。同じ名前が部屋にいれば止まって名前の欄が出る）。初めての人は名前を入れて「参加する」だけ。サイトを開いたまま部屋のリンクを押したときも、その部屋に入る（`hashchange`）。部屋の画面のQRは「近くの人はQRコードで呼ぶ」の中。部屋は作ってから12時間使える（作った人が「TOP」2回・「リセット」で部屋を出たら、その時点で閉じる。画面を消す・ブラウザを閉じるだけなら閉じない）。閉じた・12時間たった部屋のリンクを開いた人には「この部屋は終わっています／招待してくれた人に、新しい部屋のリンクを送ってもらってね」と出し、名前の欄・参加するボタンは出さない（`roomEnded`・`showEnded`。番号を手で入れたときは「見つからないか、もう終わっています」）。作った人が1分たっても1人のままなら「なかなか来ないときは、もう一度LINEで送ってみてね。この画面を閉じても、部屋は12時間のこっています」と出す（鑑定者本人の指示 2026-11-13「そうしてください」）。部屋を作った人は、参加している人の名前の横の × を2回押すと、その人を部屋から外せる（前に開いた画面から入った分・来なくなった人が残ったとき用）。同じ名前の人が2人いたら、作った人の画面に「同じ名前の人が2人います…× で外せます」と出す。ページを開き直したとき自動でさっきの部屋にもどるのは、遊んでいる途中（問題・答え合わせ）だけ。「🔙 さっきの部屋にもどる」のボタンは出さない（鑑定者本人の決定 2026-11-13「なくす」。古い部屋に知らないうちにもどり、前に入った人が残って「3人」に見えたため）。**部屋は最後の動きから30分で終わる**（鑑定者本人の決定 2026-11-13。だれかが入る・答える・スタートする・部屋の画面を開いている〈30秒ごとに「まだいます」を知らせる〉のどれかがあれば続く。作ってから12時間でも終わる。最後に書いた時刻は Firestore の決まりを変えずにすむよう expireAt〈＝その12時間後〉に入れ、読むときに seen にもどす。`lastAct`・`alive`）。**集まっている途中は、2分以上つながっていない人を一覧から自動で外す**（鑑定者本人の決定 2026-11-13「自動で外す」。作った人のスマホが部屋からも消す。戻ってきたらまた入れる）。だれかが入ったお知らせの長い名前は枠の中で折り返す。参加の画面には、いま部屋にいる人の名前（👑つき）と人数を出す（「2人なのに3人」と見えたため。だれが入っているかがわかるように）。**部屋を作った人が、自分で送ったLINEのリンクを押してしまったとき**（鑑定者本人の指摘 2026-11-13「スタートするところが見つけられなくて、名前を入力する画面に戻ってしまう」）：LINEの中の画面は別のブラウザなので、同じ名前の人がもう部屋にいると止まっていた。今は「「りえ」さんは、もうこの部屋にいます（部屋を作った人）。あなた自身ですか？」と聞き、「はい、自分です」でその人として続ける（作った人ならその画面からスタートできる。`#join-same`・`S.sameJoin`。2つの画面で答えた分は引きつぐ）。「ちがう人です」か名前を直すと、別の名前で参加。部屋の画面のLINEのボタンの下に「📌 送ったら、この画面にもどって「スタート」を押してね。自分で送ったリンクは押さなくて大丈夫です」（`.lb-back`）。結果の「心の中を見る」は小さくて押せるとわからなかったので、黄色の大きなボタン「🔍 心の中をくわしく見る ▼」（`.kok`）にした。**結果の見せ方**（鑑定者本人の選択 2026-11-13「Aの見せ方で、Bの部分を入れたい」。見本 https://claude.ai/artifact/4ig2Ww44AjwmCq6a7CHAYJ）：みんなの結果のひとりずつの診断は、いちばん上の％をピンクの丸いメーター（`.pp-ring`）＋名前、ひとことは黄色の枠（`.pp-say`）、ほかの3つの％は色ちがいの小さな四角（水色・オレンジ・ミント。`.pp-tiles`）。即決はオレンジの地・いちばん悩んだは水色の地で、札は黒（`.pk-q`・`.pk-s`）。ひとりの結果の3つの四角（`.minis`）・選び方のくせの即決／悩んだも同じ色。ひとりずつの診断は、人ごとに枠の色を交互に変える（1人目＝うすいピンクの地・ピンクのメーター／2人目＝うすい紫の地・紫のメーター。`.ppl-a`・`.ppl-b`。鑑定者本人の指示 2026-11-13「人によって色を交互に」）。トップ（`/`）とまとめページ（`/renai/` など）も、スマホに覚えさせない（`firebase.json` の Cache-Control＝no-cache。前は `*.html` にしか付けておらず、`/` で開くとスマホが1時間前の版を出しつづけ、直した画面が鑑定者本人のスマホに届いていなかった＝2026-11-13 の「何回も同じことになる」の原因）。新しい版を公開したら、前の版を開いている画面は1回だけ読み直す（`<meta name="nitaku-build">`。公開のときに GitHub Actions がコミットの番号を入れる。LINE・Google アプリの中の画面が前の版のままだったため）。見た目：黒くぬったボタンをやめ、押してほしいボタン（`.big`）はピンク（#FF3D7F）に黒い文字・黒い線、選んでいるもの（`.seg`）は黄色（#FFE071）、名前の欄は二重の枠をやめて1つの枠に（`<style id="flow2">`）。
+- **パンダの表情**（鑑定者本人の指示 2026-11-13「パンダを主役にして表情を増やす」「これで」。絵は鑑定者本人が ChatGPT で作った。見本 https://claude.ai/artifact/Hhi8yCWWhayAyazRkxhmWf）：`nitaku/img/panda-*.webp`（256px・透明な背景）。①待っている（wait）＝部屋の画面（作った人が1人のとき・招待された人）・もう1回の「準備OK」の帯・「○○さんが「もう1回」を押しました」のお知らせ／②大よろこび（joy）＝作った人の「○人そろいました」・「スタート！」のお知らせ／③おどろく（wow）＝みんなの結果の「いちばんの少数派（個性派）」・ひとりの結果で多数派度35%以下／④ニヤリ（smirk）＝ひとりの結果でいちばん上の％が65%以上／⑤てれる（shy）＝35%未満（まん中は今の悩むパンダ panda-1）／⑥手をふる（bye）＝「○○さんが入りました！」のお知らせ（おどろくは入ったときに合わないので入れかえた＝鑑定者本人の指摘）／⑦しょんぼり（sad）＝「この部屋は終わっています」。1つの画面にパンダは1匹だけ。問題の画面には出さない。パンダ以外のイラストは足さない（1.66の牛とねずみは紹介のカードの中だけ）。シェアの画像（`og-image.png`）にも、左に悩むパンダ・右にニヤリのパンダを入れた（`og-image-src.html`。アドレスの後ろは `?v=3`）。
 - **見やすさの点検**（鑑定者本人の質問 2026-11-12「今のサイトが一番見やすい状態か」）：主な画面で、文字と背景の差・文字の大きさ・押すところの大きさを機械で測った。人気の二択の一覧のクラス名 `.pop` が題名用の飾り文字（Mochiy Pop One）の決まりと重なっていたので `.popq` にした（本文の文字に戻った）。説明の小さな文字（12px以下）は13px以上に、「VS」の札は少し濃く（#9C1445）。言葉のちらし（12px）は飾りなのでそのまま。題名のピンクは見えやすさの安全装置で少し濃く（#CA3E6F）出ている。
 - **色はD（ビビッド）・VSは白い札**（鑑定者本人の選択 2026-11-13「左の白いVSとDでお願いします」）：クリーム色の点々の地（#FFF8E1）・黒に近い線と文字（#1E1E2A）・黄色の影（#F2C94C）・あざやかなピンク（#FF3D7F）。答えのカードは恋愛＝ピンク／水色、ふつう＝黄／ミント。問題の画面のVSは、白地に黒い線の札を少し傾けたもの（前のピンクの丸はやめた）。アイコンとシェアの画像も同じ色にそろえた（鑑定者本人の指示 2026-11-13「アプリのアイコンと画像も揃えてください」。題名のピンクはサイトに出ている色 #CC3166、シェア画像のVSは白い札。LINE・Xが前の画像を覚えているので、`og:image`・アイコンのアドレスの後ろに `?v=2` を付けた。次に作り直すときは数字を1つ上げる）。下の「パステル・ステッカー」の行は前の色の記録。
 - 見た目はパステル・ステッカー（鑑定者本人が5案をまぜて選んだ形 2026-11-01）：ラベンダーの点々の地・濃い紫の太い線・ずらした影、題名「究極の二択」はピンク（#E0457B）に紫の影、「本音バレ注意」のテープ・「無料3分」のシール、言葉のちらし（82%のメーターは出さない・題名はまん中＝鑑定者本人の指示 2026-11-01）、答えはパステル（恋愛＝ピンク・水色／ふつう＝黄・ミント）に濃い紫の文字。色はこの組み合わせからはずさない。デザイン案 https://claude.ai/artifact/MbqdfjgiFiKUbRZMuBQaG6
